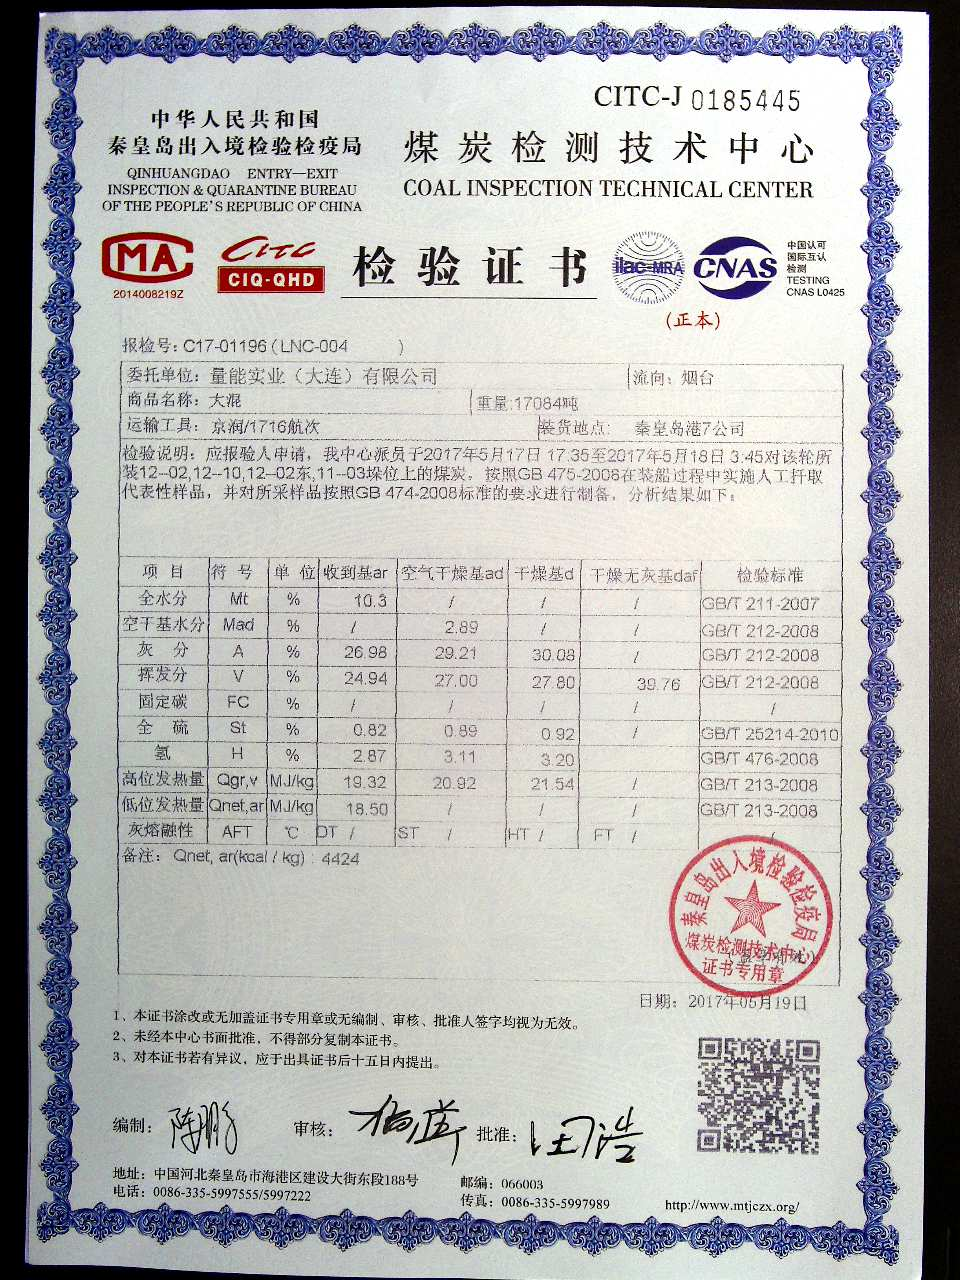
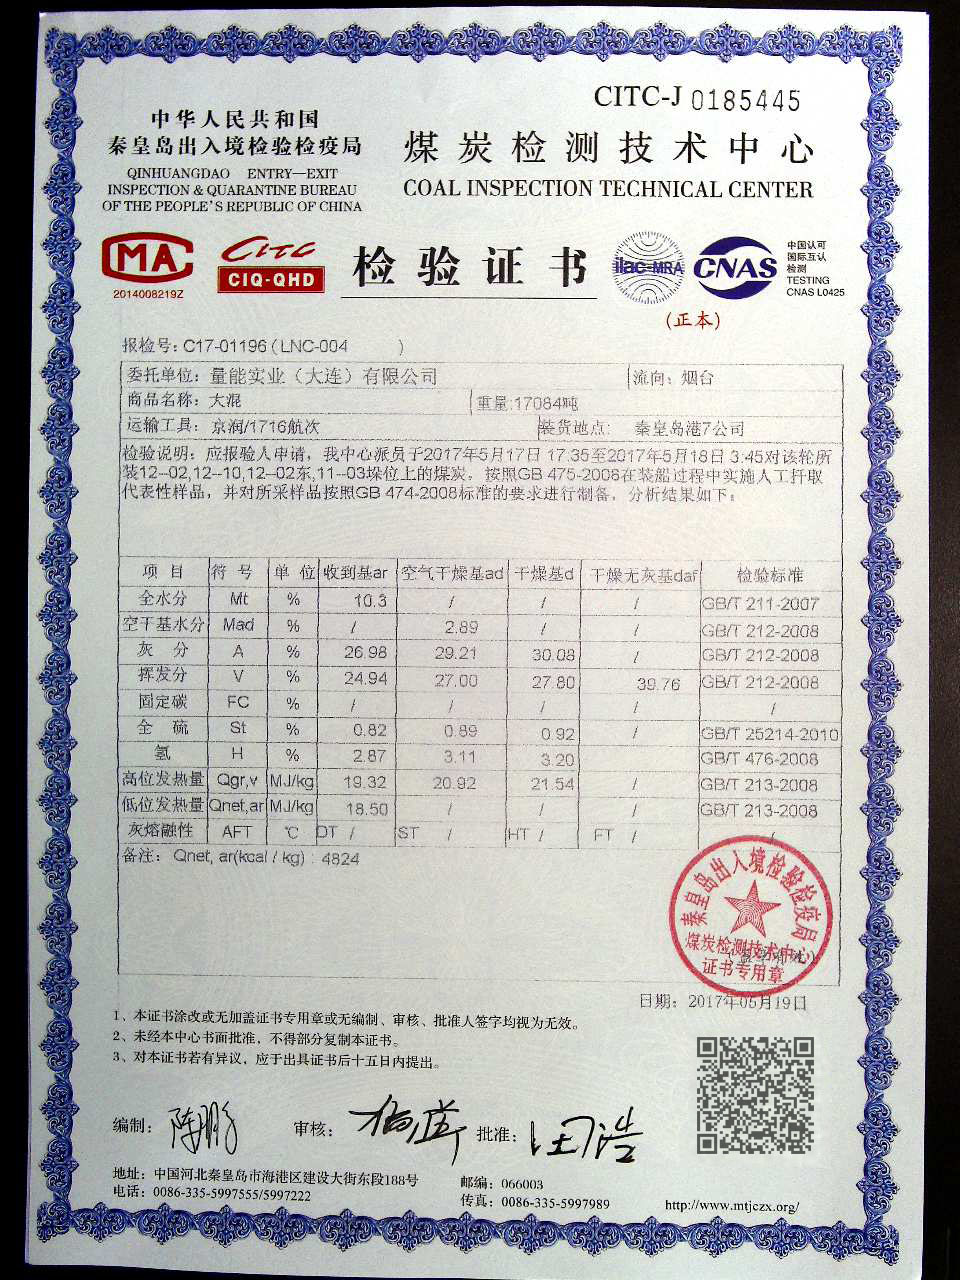
测试：网络图片及数字修改

Changed region(s): [[0.7188, 0.8125, 0.875, 0.9062]]

diff --git a/2017.10.28/746A6D304A6C6A43354F413D.htm b/2017.10.28/746A6D304A6C6A43354F413D.htm
@@ -9,7 +9,7 @@
   <TBODY>
   <TR>
     <TD>委托单位</TD>
-    <TD>秦皇岛华燃煤炭有限公司</TD></TR>
+    <TD>量能实业（大连）有限公司</TD></TR>
   <TR>
     <TD>流向</TD>
     <TD>烟台</TD></TR>
@@ -81,4 +81,4 @@
     <TD>18.5MJ/kg</TD></TR>
   <TR>
     <TD>低位发热量收到基(kcal/kg)</TD>
-    <TD>4424kcal/kg</TD></TR></TBODY></TABLE></BODY></HTML>
+    <TD>4824kcal/kg</TD></TR></TBODY></TABLE></BODY></HTML>
